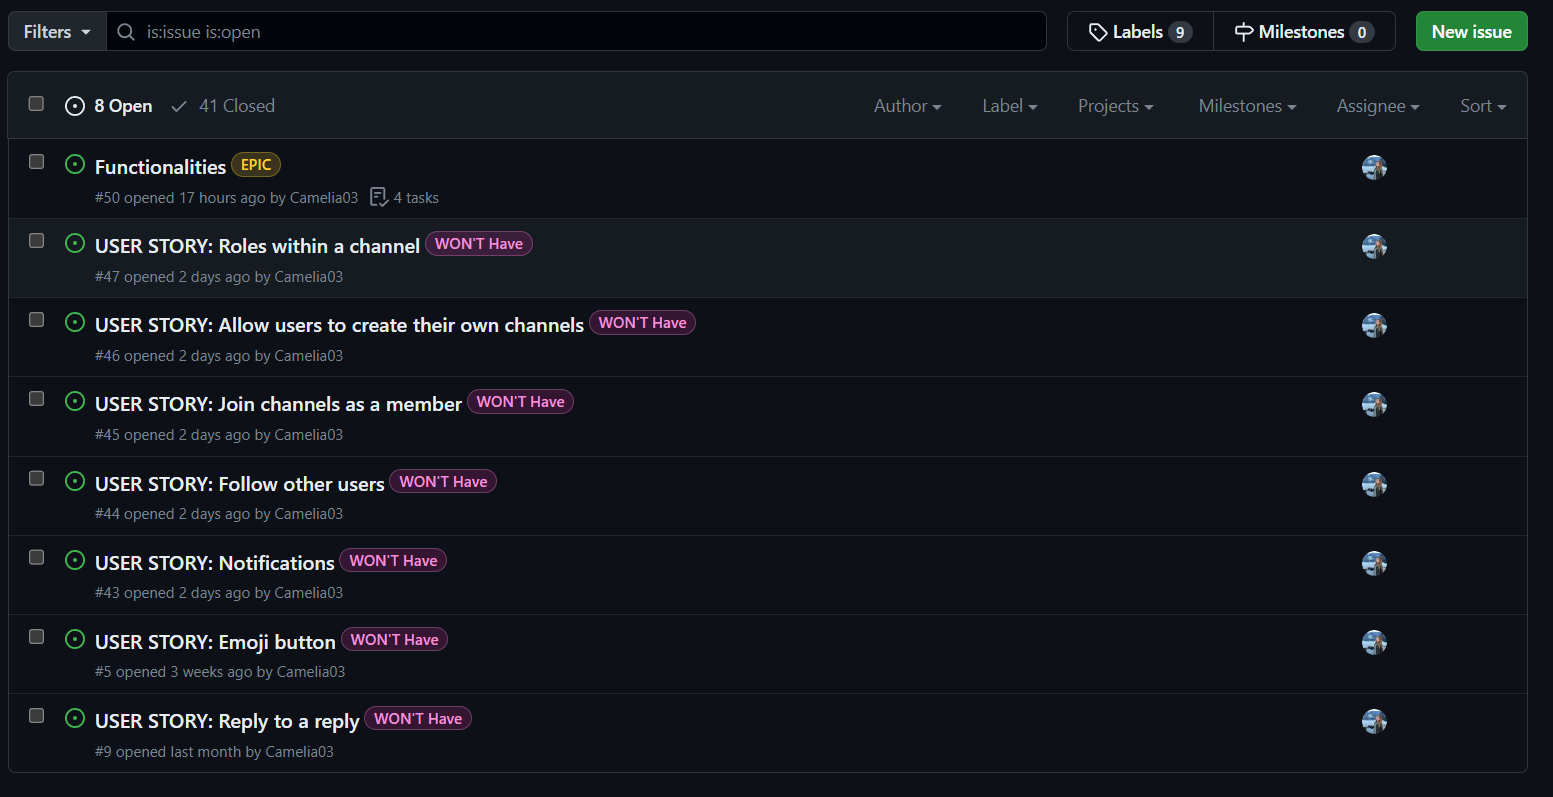
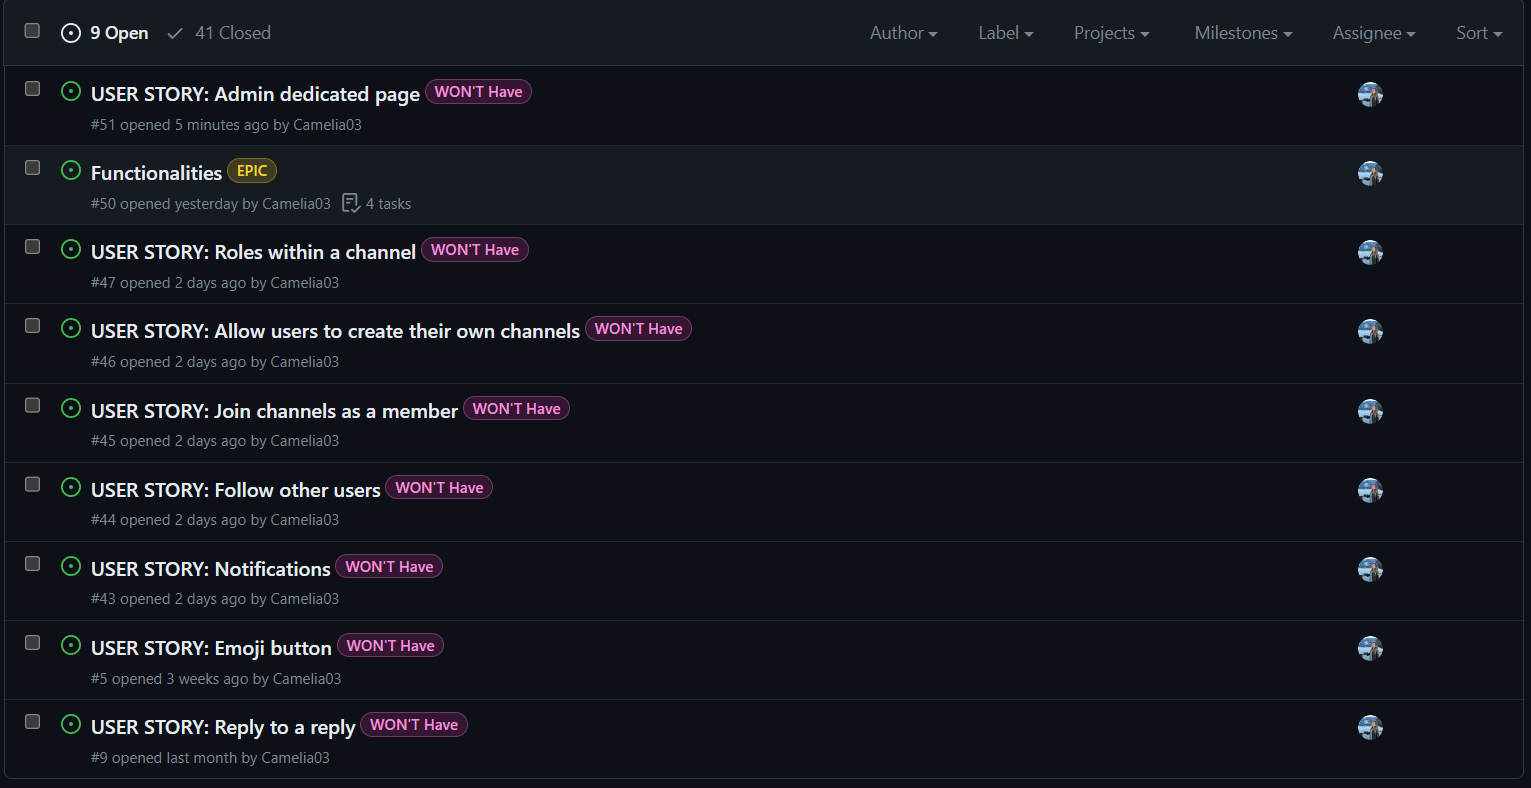
Add another user story to readme and update screenshots

diff --git a/README.md b/README.md
@@ -87,7 +87,7 @@ Starting off as a blogging platform, GoGLobal's main goal shifted towards creati
 |23 |Replies            |9|Won't have|As a registered user I can respond to replies on the communication platform so that I can engage in discussions, share my perspective, and interact with others in the community|
 | 3 |Channels            |34|Could have|As a registered user I can utilize existing channels on the communication platform to read, post threads, and engage in conversations so that I can stay informed about diverse topics and contribute my insights and questions|
 |48 |Admin's action      |7|Could have|As an admin user I can suspend/delete the accounts of users who break the rules of the site so that I can prevent users from constantly violating the guidelines|
-|48 |Admin's action      |8|Could have|As an admin user I can **delete other user's threads ** so that I can update the site's content                                  |
+|48 |Admin's action      |8|Could have|As an admin user I can delete other user's threads so that I can update the site's content                                  |
 |48 |Admin's action      |33|Could have|As an admin user I can create a new channel within the communication platform so that users can have a dedicated space to discuss project-related updates, share resources, and collaborate effectively|
 |49 |Functionalities     |29|Must have|As a registered user I can search for other user's threads so that I can discover relevant content                               |
 |49 |Functionalities     |30|Must have|As a registered user, I can select different sorting options so that I can customize the way I view the list of items and find the information I'm interested in more efficiently|
@@ -97,6 +97,7 @@ Starting off as a blogging platform, GoGLobal's main goal shifted towards creati
 | 3 |Channels            |45|Won't have|As a registered user I can join channels as a member so that I'll get access to discussions, information, and collaboration opportunities within the specific channel|
 | 3 |Channels            |46|Won't have|As a registered user I can create personalized channels on the platform so that I can initiate discussions, share content, and connect with others who share similar interests|
 | 3 | Channels           |47|Won't have|As a registered user I can be assigned roles within a channel so that I can moderate the channel's activities, ensuring smooth discussions, content curation, and maintaining a positive environment for all members|
+| 3 | Admin's action           |51|Won't have|As an admin user I can access a dedicated page exclusively meant for administrators so that I can review a list of posts that may require deletion or improved site organization|
 
 
 ### Color Scheme
@@ -693,7 +694,9 @@ GitHub Issues served as an additional Agile tool. Within this context, I utilize
 
 - [Closed Issues](https://github.com/Camelia03/portofolio-project-4/issues?q=is%3Aissue+is%3Aclosed)
 
-    ![screenshot](docs/closed_issues.png)
+    ![screenshot](docs/closed_issues_firstpage.png)
+    ![screenshot](docs/closed_issues_secondpage.png)
+
 
 
 ### MoSCoW Prioritization
